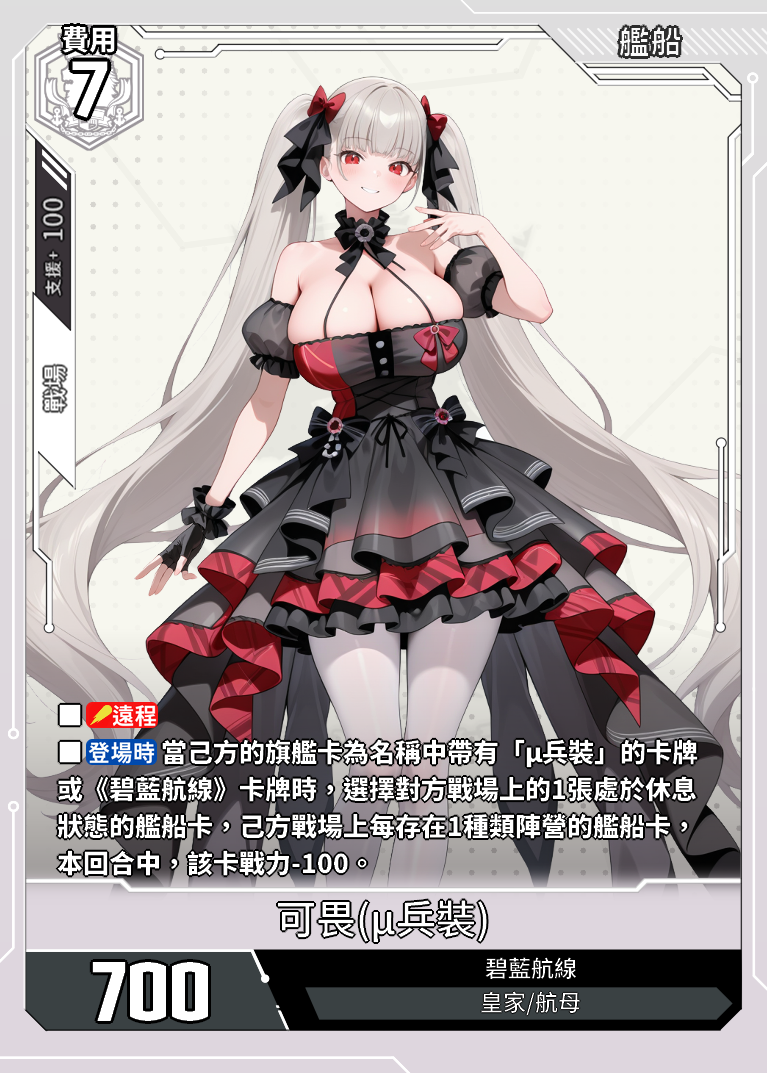
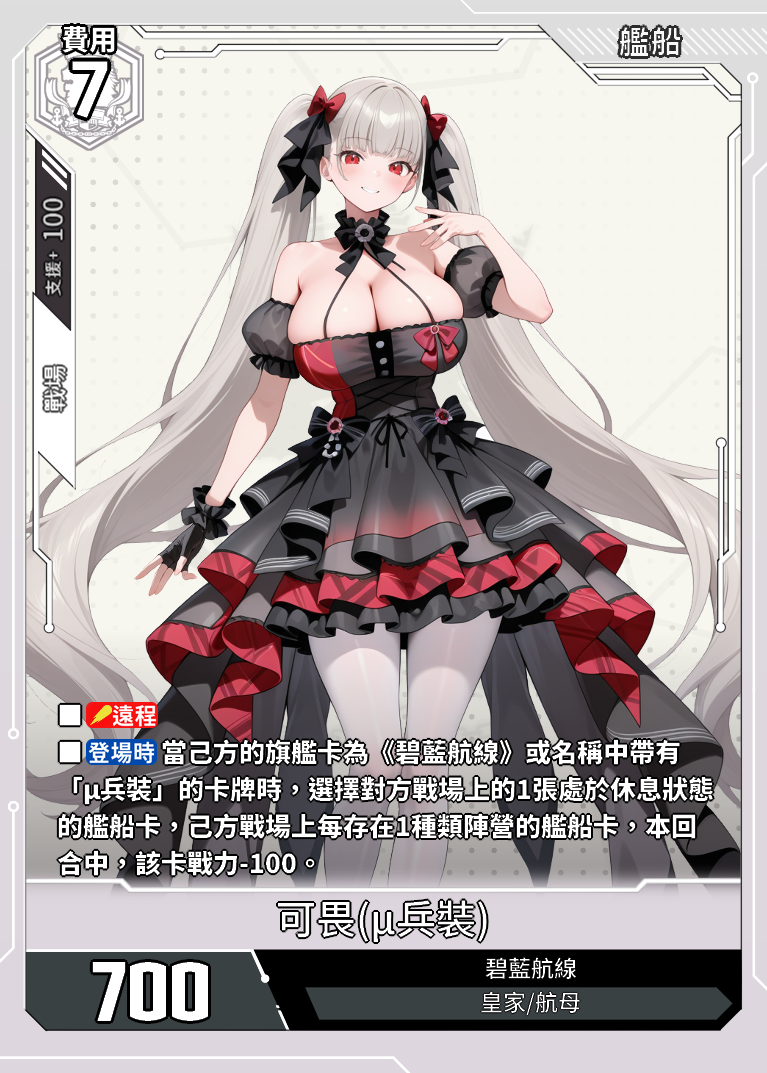
修正可畏u文本

Changed region(s): [[0.06, 0.6766, 0.9296, 0.8304]]

diff --git a/data.js b/data.js
@@ -25305,7 +25305,7 @@ const cards = [
             "支援範圍": "戰場",
             "支援值": "100"
         },
-        "card_effect": "■【遠程】■【登場時】當己方的旗艦卡為名稱中帶有「μ兵裝」的卡牌或《碧藍航線》卡牌時，選擇對方戰場上的1張處於休息狀態的艦船卡，己方戰場上每存在1種類陣營的艦船卡，本回合中，該卡戰力-100。",
+        "card_effect": "■【遠程】■【登場時】當己方的旗艦卡為《碧藍航線》或名稱中帶有「μ兵裝」的卡牌時，選擇對方戰場上的1張處於休息狀態的艦船卡，己方戰場上每存在1種類陣營的艦船卡，本回合中，該卡戰力-100。",
         "acquisition_method": "CE02-早期測試"
     },
 	{
